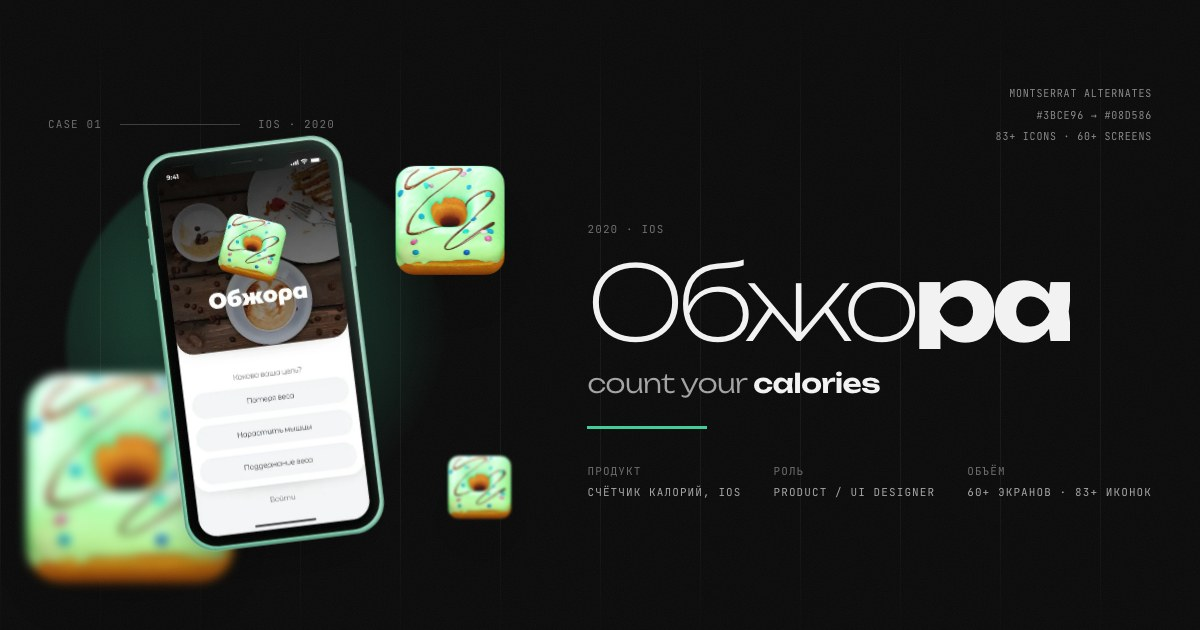
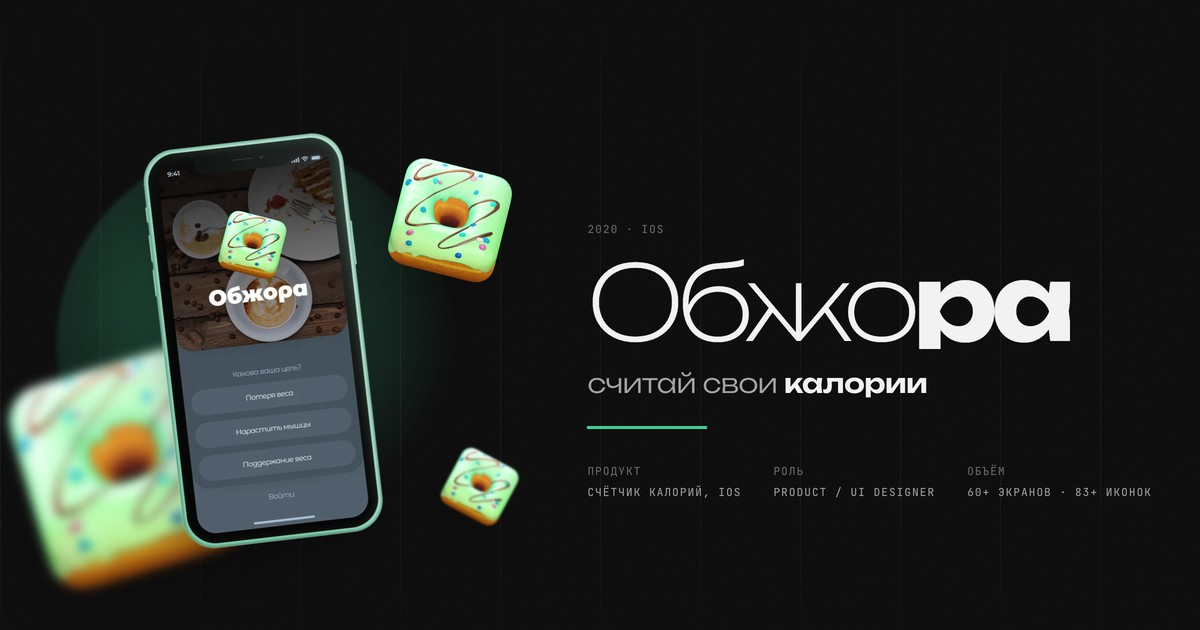
Obzhora link preview: re-shot from the current hero (no «Case 01» and type specs, Russian slogan), ?v=2 so messengers drop the cached card

diff --git a/cases/obzhora/index.html b/cases/obzhora/index.html
@@ -11,11 +11,11 @@
 <meta property="og:title" content="Кейс «Обжора» — счётчик калорий для iOS">
 <meta property="og:description" content="60+ экранов, 83+ иконок, светлая и тёмная тема — от концепции до UI-кита">
 <meta property="og:url" content="https://andrewkuznetsov.com/cases/obzhora/">
-<meta property="og:image" content="https://andrewkuznetsov.com/assets/og/og-obzhora.jpg">
+<meta property="og:image" content="https://andrewkuznetsov.com/assets/og/og-obzhora.jpg?v=2">
 <meta property="og:image:width" content="1200">
 <meta property="og:image:height" content="630">
 <meta name="twitter:card" content="summary_large_image">
-<meta name="twitter:image" content="https://andrewkuznetsov.com/assets/og/og-obzhora.jpg">
+<meta name="twitter:image" content="https://andrewkuznetsov.com/assets/og/og-obzhora.jpg?v=2">
 <link rel="canonical" href="https://andrewkuznetsov.com/cases/obzhora/">
 <meta name="robots" content="index,follow">
 <link rel="icon" href="/favicon.ico" sizes="any">

diff --git a/src/wrap.py b/src/wrap.py
@@ -36,7 +36,7 @@ J=os.path.join
 if os.path.exists(J(R,'src','index-src.html')):
     wrap(J(R,'src','index-src.html'),J(R,'index.html'),desc='Андрей Кузнецов — Lead Product Designer · AI & Design Systems. Портфолио: продуктовый дизайн, дизайн-системы, AI-инструменты', canonical='https://andrewkuznetsov.com/', image='https://andrewkuznetsov.com/assets/og/og-home.jpg',
      og_title='Портфолио продуктового дизайнера', og_desc='14 лет в дизайне: дизайн-системы, финтех, медтех и AI-продукты. Сбер, ВТБ, VK, YouGile, Lab4U, Финам')
-wrap(J(R,'src','cases','obzhora','obzhora-case.html'),J(R,'cases','obzhora','index.html'),desc='Кейс «Обжора» — счётчик калорий для iOS: 60+ экранов, 83+ иконок, тёмная тема. Андрей Кузнецов', canonical='https://andrewkuznetsov.com/cases/obzhora/', image='https://andrewkuznetsov.com/assets/og/og-obzhora.jpg',
+wrap(J(R,'src','cases','obzhora','obzhora-case.html'),J(R,'cases','obzhora','index.html'),desc='Кейс «Обжора» — счётчик калорий для iOS: 60+ экранов, 83+ иконок, тёмная тема. Андрей Кузнецов', canonical='https://andrewkuznetsov.com/cases/obzhora/', image='https://andrewkuznetsov.com/assets/og/og-obzhora.jpg?v=2',
      og_title='Кейс «Обжора» — счётчик калорий для iOS', og_desc='60+ экранов, 83+ иконок, светлая и тёмная тема — от концепции до UI-кита')
 if os.path.exists(J(R,'src','cases','lab4u','lab4u-case.html')):
     os.makedirs(J(R,'cases','lab4u'),exist_ok=True)
